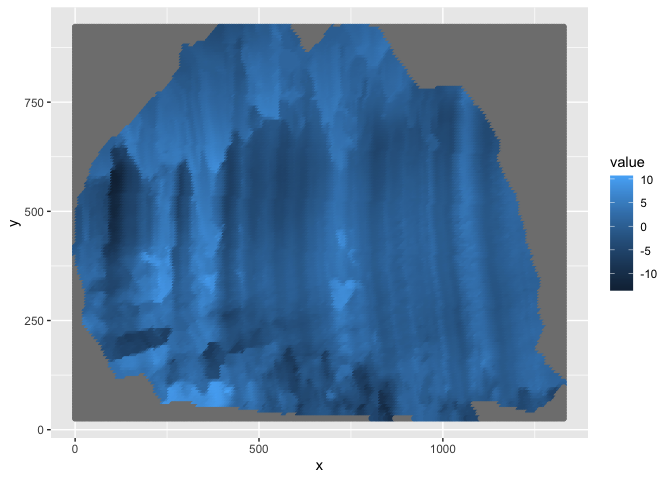
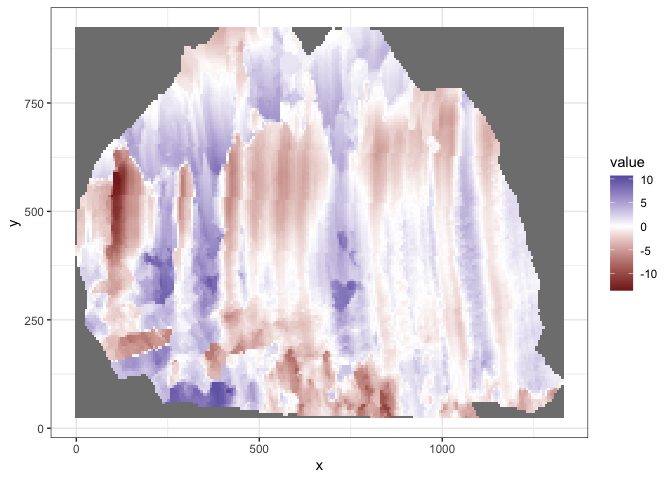
Unify ggplots

diff --git a/README.md b/README.md
@@ -170,7 +170,7 @@ attr(raw_sig, "x3p_raw_sig_vec_plot")
 shift_sig <- x3p_shift_sig_vec(x3p_bin_rotate, ifplot = TRUE)
 ```
 
-<img src="man/figures/README-signal-2.png" width="100%" /><img src="man/figures/README-signal-3.png" width="100%" /><img src="man/figures/README-signal-4.png" width="100%" />
+<img src="man/figures/README-signal-2.png" width="100%" /><img src="man/figures/README-signal-3.png" width="100%" />
 
 ``` r
 shift_sig %>%
@@ -335,9 +335,9 @@ shift_sig %>%
 #>     super:  <ggproto object: Class ScalesList, gg> 
 #>   ..$ mapping    :List of 2
 #>   .. ..$ x: language ~x
-#>   .. .. ..- attr(*, ".Environment")=<environment: 0x157fcdee8> 
+#>   .. .. ..- attr(*, ".Environment")=<environment: 0x14fc957b0> 
 #>   .. ..$ y: language ~value
-#>   .. .. ..- attr(*, ".Environment")=<environment: 0x157fcdee8> 
+#>   .. .. ..- attr(*, ".Environment")=<environment: 0x14fc957b0> 
 #>   .. ..- attr(*, "class")= chr "uneval"
 #>   ..$ theme      :List of 97
 #>   .. ..$ line                      :List of 6
@@ -804,7 +804,7 @@ shift_sig %>%
 #>     train_scales: function
 #>     vars: function
 #>     super:  <ggproto object: Class FacetNull, Facet, gg> 
-#>   ..$ plot_env   :<environment: 0x157fcdee8> 
+#>   ..$ plot_env   :<environment: 0x14fc957b0> 
 #>   ..$ labels     :List of 3
 #>   .. ..$ x    : chr "x"
 #>   .. ..$ y    : chr "value"
